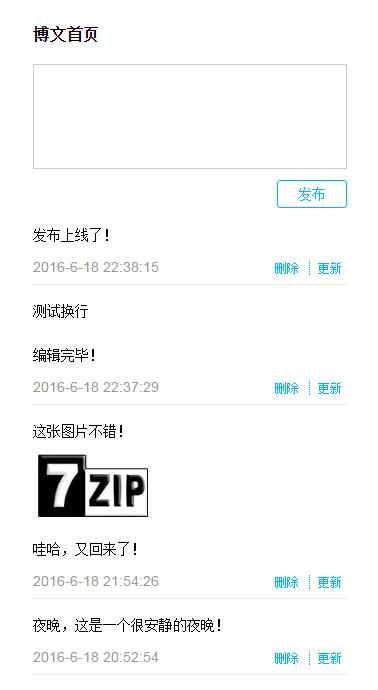
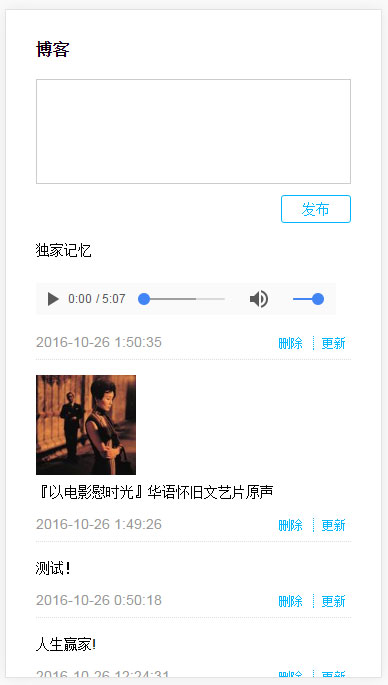
更新图片和案例

diff --git a/README.md b/README.md
@@ -29,3 +29,9 @@ mongodb的在node.js的数据驱动用的是mongoose。
 > npm start
 ```
 4.在浏览器中，打开 http://localhost:3000/ 
+
+### 线上案例
+
+基于 Heroku 和 远程数据库 搭建：
+
+[hi-blog](https://hi-blog.herokuapp.com/)
